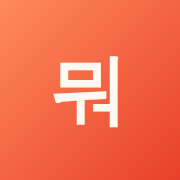
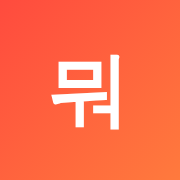
style: 배달앱 느낌의 톡시·그래픽한 디자인으로 리브랜딩
기존 전자혀 톤(크림 배경·세리프 폰트·차분한 테두리)에서 배민·쿠팡이츠
류 배달앱 느낌으로 전환:
- Jua(둥근 고딕) 표시 폰트 + 채도 높은 코랄레드/오렌지 헤더 그라데이션
- 카드: 테두리 대신 그림자로 입체감, 라운드 대폭 확대
- 칩: 흰 배경+그림자(off) / 다크 필(on)로 대비 강화
- 맵기 뱃지: 텍스트 색상 → 초록/주황/빨강 솔리드 필 배지
- 랜덤 추천 카드: 노랑 그라데이션 '깜짝 당첨' 스타일
- 앱 아이콘도 새 컬러로 재생성

Claude-Session: https://claude.ai/code/session_01PtH9Av8JtWsJr6VjiNNe6c

diff --git a/index.html b/index.html
@@ -4,7 +4,7 @@
 <meta charset="UTF-8" />
 <meta name="viewport" content="width=device-width, initial-scale=1.0, maximum-scale=1.0, user-scalable=no, viewport-fit=cover" />
 <title>오늘뭐먹지 · 아이 사먹기 메뉴 추천</title>
-<meta name="theme-color" content="#F2722B" />
+<meta name="theme-color" content="#FF4B3E" />
 <meta name="description" content="쿠팡·이마트·배달 브랜드에서 아이 사먹일 메뉴 고르기" />
 <meta name="mobile-web-app-capable" content="yes" />
 <meta name="apple-mobile-web-app-capable" content="yes" />
@@ -15,15 +15,14 @@
 <link rel="icon" href="./icon-192.png" />
 <link rel="preconnect" href="https://fonts.googleapis.com" />
 <link rel="preconnect" href="https://fonts.gstatic.com" crossorigin />
-<link href="https://fonts.googleapis.com/css2?family=Fraunces:opsz,wght@9..144,500;9..144,600;9..144,700&family=Noto+Sans+KR:wght@400;500;700;900&family=Space+Mono:wght@400;700&display=swap" rel="stylesheet" />
+<link href="https://fonts.googleapis.com/css2?family=Jua&family=Noto+Sans+KR:wght@400;500;700;800;900&display=swap" rel="stylesheet" />
 <style>
   :root{
-    --bg-base:#F4EEE3; --bg-frame:#FFFCF6; --surface:#FBF5EC; --surface2:#F1E9DB; --border:#E6DCCB;
-    --text:#2B2620; --muted:#7C7060; --faint:#A39684;
-    --gold:#D99A00; --chef-brown:#B06A22; --accent:#F2722B; --accent-soft:rgba(242,114,43,.12);
-    --t-spicy:#D6002F;
-    --warn:#C98A1E; --danger:#D6483C; --track:#ECE3D4; --shadow:rgba(90,70,35,.18);
-    --display:'Fraunces',serif; --body:'Noto Sans KR',sans-serif; --mono:'Space Mono',monospace;
+    --bg-base:#F1F2F7; --bg-frame:#FFFFFF; --surface:#FFFFFF; --surface2:#F1F2F7; --border:#ECEDF3;
+    --text:#181A23; --muted:#6B6F80; --faint:#A3A6B5;
+    --accent:#FF4B3E; --accent2:#FFC93C; --accent-soft:rgba(255,75,62,.10);
+    --good:#19C37D; --warn:#FF9E1B; --danger:#FF3B3B; --track:#E9EAF1; --shadow:rgba(24,26,35,.10);
+    --display:'Jua',sans-serif; --body:'Noto Sans KR',sans-serif;
   }
   *{box-sizing:border-box;-webkit-tap-highlight-color:transparent}
   html{-webkit-text-size-adjust:100%}
@@ -37,71 +36,79 @@
     padding-bottom:env(safe-area-inset-bottom);animation:pop .22s ease;
   }
   @media (min-width:480px){
-    body{display:flex;justify-content:center;align-items:flex-start;padding:20px 12px}
-    .frame{max-width:400px;min-height:0;border-radius:28px;border:1px solid var(--border);
-      box-shadow:0 24px 60px -24px var(--shadow);position:relative}
+    body{display:flex;justify-content:center;align-items:flex-start;padding:20px 12px;background:var(--bg-base)}
+    .frame{max-width:400px;min-height:0;border-radius:28px;
+      box-shadow:0 24px 60px -20px var(--shadow);position:relative}
   }
 
   /* 공용 헤더 */
-  .hd{padding:calc(env(safe-area-inset-top) + 18px) 20px 14px;border-bottom:1px solid var(--border);position:relative}
-  .hd .kicker{font-family:var(--mono);font-size:10px;letter-spacing:2px;color:var(--faint);text-transform:uppercase}
-  .hd .row{display:flex;align-items:center;gap:11px;margin-top:9px}
-  .avatar{width:38px;height:38px;border-radius:50%;flex-shrink:0;background:linear-gradient(135deg,#C77B3C,#7A4A22);
-    display:flex;align-items:center;justify-content:center;font-family:var(--display);font-weight:700;font-size:18px;color:#FFF3E4}
-  .hd .name{font-family:var(--display);font-size:19px;font-weight:600;line-height:1.1}
-  .hd .sub{font-size:11px;color:var(--muted)}
+  .hd{padding:calc(env(safe-area-inset-top) + 20px) 20px 18px;position:relative;
+    background:linear-gradient(135deg,var(--accent),#FF7A3D)}
+  .hd .kicker{display:inline-flex;font-size:11px;font-weight:800;letter-spacing:.3px;color:#fff;
+    background:rgba(255,255,255,.22);padding:4px 11px;border-radius:999px}
+  .hd .row{display:flex;align-items:center;gap:12px;margin-top:12px}
+  .avatar{width:46px;height:46px;border-radius:16px;flex-shrink:0;background:rgba(255,255,255,.94);
+    display:flex;align-items:center;justify-content:center;font-size:24px;box-shadow:0 6px 14px -4px rgba(0,0,0,.25)}
+  .hd .name{font-family:var(--display);font-size:24px;font-weight:400;line-height:1.15;color:#fff;letter-spacing:.3px}
+  .hd .sub{font-size:12px;color:rgba(255,255,255,.85);margin-top:1px}
 
-  .chips{display:flex;flex-wrap:wrap;gap:7px}
-  .chip{font-size:12.5px;font-weight:700;color:var(--muted);background:var(--surface);border:1px solid var(--border);
-    border-radius:999px;padding:9px 13px;cursor:pointer;transition:.15s;min-height:38px;display:inline-flex;align-items:center}
-  .chip:active{transform:scale(.95)}
-  .chip.on{color:#1a130c;background:var(--accent);border-color:var(--accent)}
+  .chips{display:flex;flex-wrap:wrap;gap:8px}
+  .chip{font-size:13px;font-weight:800;color:var(--muted);background:var(--surface);border:none;
+    border-radius:999px;padding:9px 14px;cursor:pointer;transition:.15s;min-height:38px;display:inline-flex;align-items:center;
+    box-shadow:0 2px 8px -2px rgba(24,26,35,.12)}
+  .chip:active{transform:scale(.94)}
+  .chip.on{color:#fff;background:var(--text);box-shadow:0 4px 10px -2px rgba(24,26,35,.35)}
 
   .empty{text-align:center;color:var(--faint);font-size:13px;padding:50px 20px;line-height:1.7}
 
-  input[type=range]{-webkit-appearance:none;appearance:none;width:100%;height:6px;background:var(--track);border-radius:99px;cursor:pointer;touch-action:none}
-  input[type=range]::-webkit-slider-thumb{-webkit-appearance:none;width:26px;height:26px;border-radius:50%;background:var(--text);box-shadow:0 1px 5px rgba(90,70,35,.3)}
-  input[type=range]::-moz-range-thumb{width:26px;height:26px;border:none;border-radius:50%;background:var(--text);box-shadow:0 1px 5px rgba(90,70,35,.3)}
+  input[type=range]{-webkit-appearance:none;appearance:none;width:100%;height:8px;background:var(--track);border-radius:99px;cursor:pointer;touch-action:none}
+  input[type=range]::-webkit-slider-thumb{-webkit-appearance:none;width:26px;height:26px;border-radius:50%;background:var(--accent);border:3px solid #fff;box-shadow:0 2px 8px rgba(255,75,62,.5)}
+  input[type=range]::-moz-range-thumb{width:26px;height:26px;border:3px solid #fff;border-radius:50%;background:var(--accent);box-shadow:0 2px 8px rgba(255,75,62,.5)}
 
   /* ── 사먹기 ── */
-  .buybar{padding:2px 16px 10px}
-  .buybar .lab{font-family:var(--mono);font-size:10px;letter-spacing:1.4px;color:var(--faint);text-transform:uppercase;margin:10px 0 8px}
+  .buybar{padding:16px 16px 6px}
+  .buybar .lab{font-family:var(--display);font-size:14px;color:var(--text);margin:14px 0 9px;font-weight:400}
   .buybar .lab:first-child{margin-top:2px}
   .buyspicy{display:flex;align-items:center;gap:10px;margin-top:4px}
   .buyspicy input[type=range]{flex:1}
-  .buyspicy .bsval{font-family:var(--mono);font-size:13px;font-weight:700;color:var(--t-spicy);min-width:26px;text-align:right}
-  .buyroll{width:100%;margin-top:14px;font-weight:800;font-size:14px;color:#1a130c;background:var(--accent);
-    border:none;border-radius:13px;padding:13px;cursor:pointer}
-  .buyroll:active{transform:scale(.98)}
-  .buypick{margin:12px 16px;padding:16px;border-radius:16px;background:linear-gradient(135deg,var(--accent-soft),var(--surface));
-    border:1.5px solid var(--accent);text-align:center}
-  .buypick .bpem{font-size:38px;line-height:1}
-  .buypick .bpn{font-size:17px;font-weight:800;color:var(--text);margin-top:4px}
-  .buypick .bpmeta{font-size:12px;color:var(--muted);margin-top:3px}
-  .buylist{padding:4px 16px 16px}
-  .buycard{border:1px solid var(--border);border-radius:14px;background:var(--surface);padding:12px 13px;margin-bottom:9px}
-  .buycard .bch{display:flex;align-items:flex-start;gap:10px}
-  .buycard .bcem{font-size:24px;line-height:1.2}
-  .buycard .bcn{flex:1;font-weight:700;font-size:14px;color:var(--text)}
-  .buycard .bcbrand{font-weight:500;font-size:11.5px;color:var(--faint);margin-top:1px}
-  .buycard .bcnote{font-size:11.5px;color:var(--muted);margin-top:6px;line-height:1.4}
-  .buycard .bcfav{background:none;border:none;font-size:16px;cursor:pointer;padding:2px}
-  .buycard .bctags{display:flex;flex-wrap:wrap;gap:5px;margin-top:8px}
-  .buycard .bctags span{font-size:10.5px;font-weight:700;padding:2.5px 8px;border-radius:999px;background:var(--surface2);border:1px solid var(--border);color:var(--muted)}
-  .buycard .spicy0{color:#3F8F4F}.buycard .spicy1{color:var(--warn)}.buycard .spicy2{color:var(--danger)}
-  .buycard .bcgo{display:flex;gap:8px;margin-top:10px}
-  .buycard .bcgo a{flex:1;text-align:center;text-decoration:none;font-size:12px;font-weight:700;color:var(--text);
-    background:var(--surface2);border:1px solid var(--border);border-radius:10px;padding:8px 6px}
-  .buycard .bcgo a:active{transform:scale(.97)}
+  .buyspicy .bsval{font-family:var(--display);font-size:16px;font-weight:400;color:var(--accent);min-width:24px;text-align:right}
+  .buyroll{width:100%;margin-top:16px;font-family:var(--display);font-weight:400;font-size:17px;letter-spacing:.3px;color:#fff;
+    background:linear-gradient(135deg,var(--accent),#FF7A3D);border:none;border-radius:999px;padding:15px;cursor:pointer;
+    box-shadow:0 8px 20px -6px rgba(255,75,62,.55)}
+  .buyroll:active{transform:scale(.97)}
+  .buypick{margin:14px 16px;padding:20px;border-radius:20px;background:linear-gradient(135deg,var(--accent2),#FFB13C);
+    text-align:center;box-shadow:0 10px 24px -10px rgba(255,158,27,.6);animation:pop .25s ease}
+  .buypick .bpem{font-size:42px;line-height:1}
+  .buypick .bpn{font-family:var(--display);font-size:20px;font-weight:400;color:#181A23;margin-top:6px}
+  .buypick .bpmeta{font-size:12px;font-weight:700;color:#5b4404;margin-top:3px;opacity:.85}
+  .buylist{padding:6px 16px 20px}
+  .buycard{border:none;border-radius:20px;background:var(--surface);padding:14px;margin-bottom:12px;
+    box-shadow:0 3px 14px -4px rgba(24,26,35,.10)}
+  .buycard .bch{display:flex;align-items:flex-start;gap:11px}
+  .buycard .bcem{font-size:28px;line-height:1.15;width:44px;height:44px;flex-shrink:0;display:flex;align-items:center;justify-content:center;
+    background:var(--surface2);border-radius:14px}
+  .buycard .bcn{flex:1;font-weight:800;font-size:14.5px;color:var(--text);padding-top:2px}
+  .buycard .bcbrand{font-weight:600;font-size:11.5px;color:var(--faint);margin-top:2px}
+  .buycard .bcnote{font-size:12px;color:var(--muted);margin-top:8px;line-height:1.45}
+  .buycard .bcfav{background:none;border:none;font-size:18px;cursor:pointer;padding:2px}
+  .buycard .bctags{display:flex;flex-wrap:wrap;gap:6px;margin-top:10px}
+  .buycard .bctags span{font-size:10.5px;font-weight:800;padding:4px 10px;border-radius:999px;background:var(--surface2);color:var(--muted)}
+  .buycard .spicy0{background:rgba(25,195,125,.14);color:#0F9D63}
+  .buycard .spicy1{background:rgba(255,158,27,.15);color:#C9720A}
+  .buycard .spicy2{background:rgba(255,59,59,.14);color:var(--danger)}
+  .buycard .bcgo{display:flex;gap:8px;margin-top:12px}
+  .buycard .bcgo a{flex:1;text-align:center;text-decoration:none;font-size:12.5px;font-weight:800;color:#fff;
+    background:var(--text);border:none;border-radius:999px;padding:10px 6px}
+  .buycard .bcgo a:active{transform:scale(.96)}
 </style>
 </head>
 <body>
 <div class="frame" id="frame">
   <section id="view-buy">
     <div class="hd">
-      <div class="kicker">Kids Takeout · 사먹는 메뉴</div>
+      <div class="kicker">🛍 KIDS TAKEOUT</div>
       <div class="row">
-        <div class="avatar" style="background:linear-gradient(135deg,#F2722B,#B06A22)">🛍</div>
+        <div class="avatar">🍽</div>
         <div><div class="name">오늘뭐먹지</div><div class="sub">쿠팡·이마트·배달에서 아이 메뉴 고르기</div></div>
       </div>
     </div>
